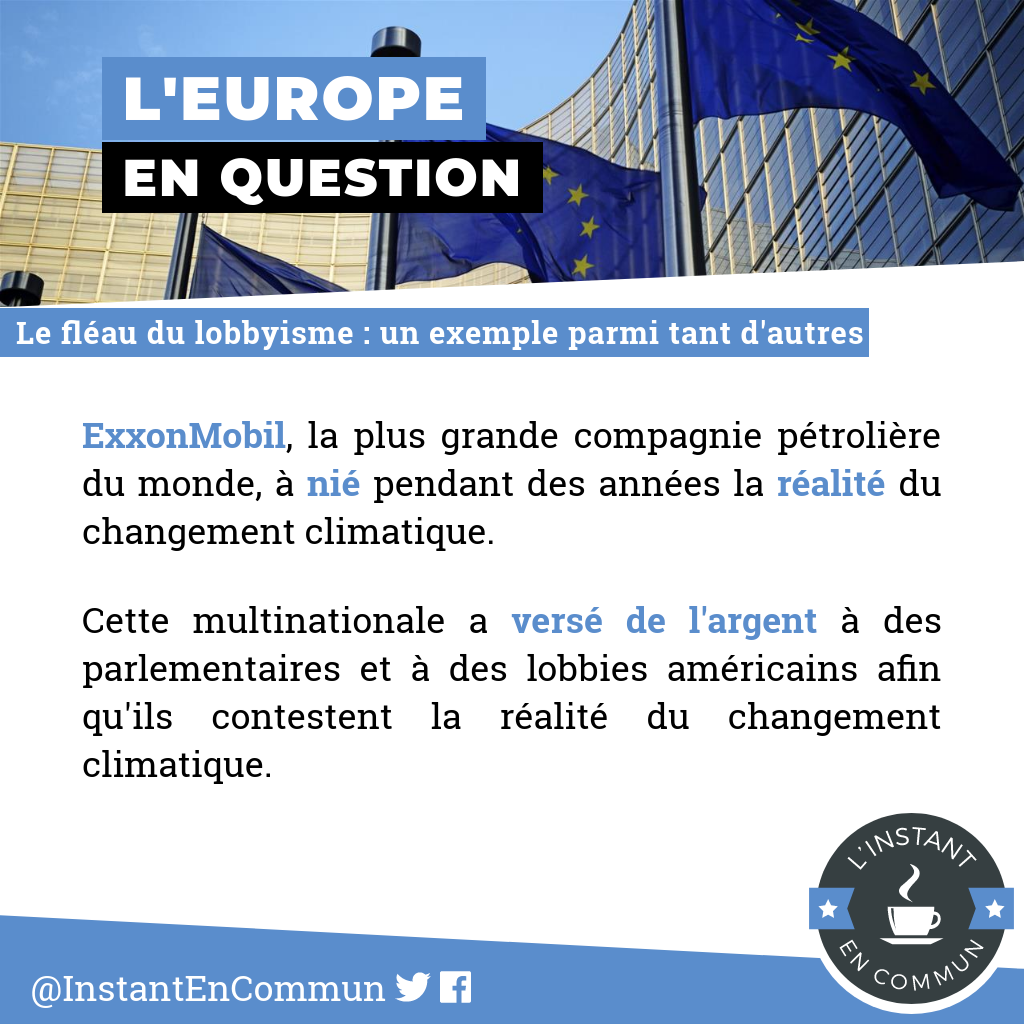
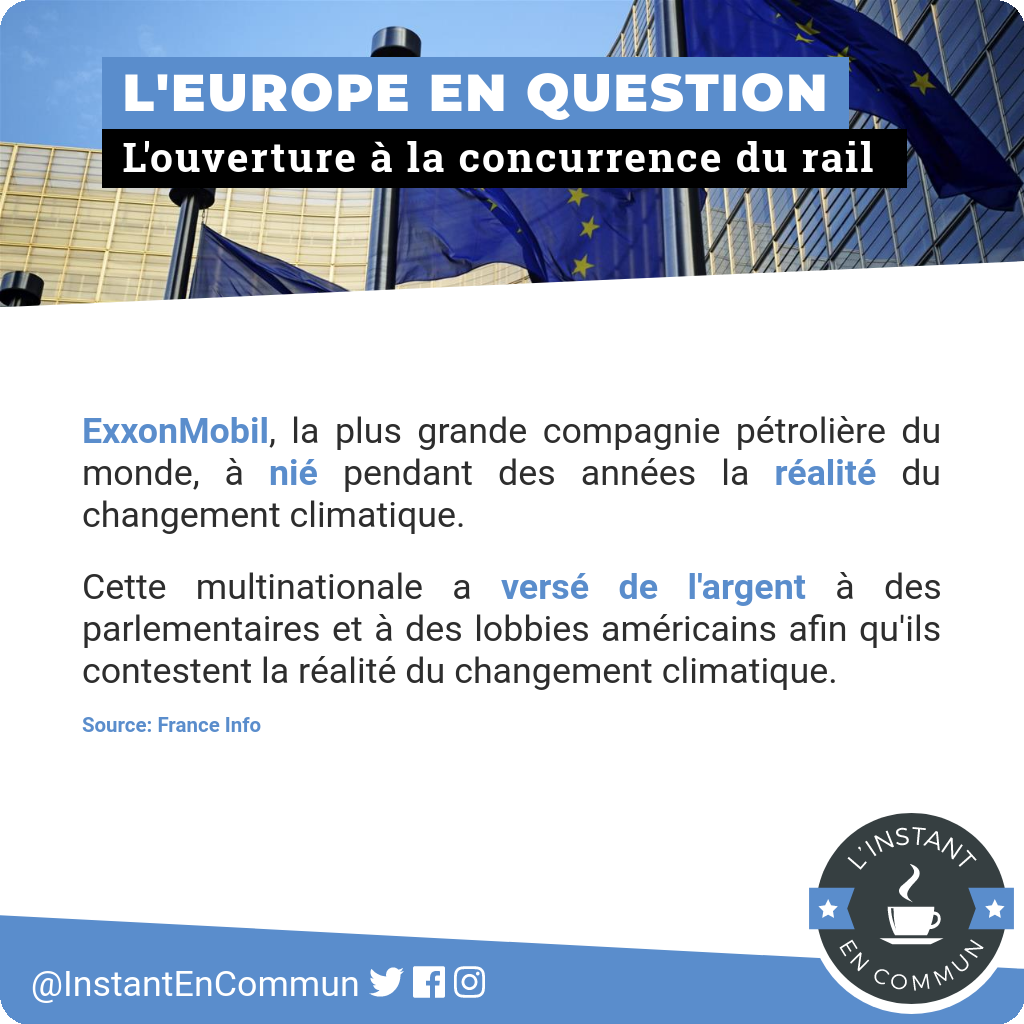
nouveaux visuels LIEC

diff --git a/genvisu/modeles/liec/urgeco/index.html b/genvisu/modeles/liec/urgeco/index.html
@@ -164,13 +164,10 @@
 
         <div class="content">
           <div class="zone" id="bloc1" contenteditable="">
-              <div><span paddingleft="10" paddingright="10" paddingtop="3" paddingbottom="3" letterspacing="2" bgcolor="5" color="2" fontfamily="1" fontweight="9" texttransform="uppercase" fontsize="15">URGENCE</span></div>
-              <div margintop="-1"><span paddingleft="10" paddingright="10" paddingtop="0" paddingbottom="2" letterspacing="2" bgcolor="1" color="2" fontfamily="1" fontweight="9" texttransform="uppercase" fontsize="15" lineheight="9">écologique</span></div>
-            </div>
-            <div class="zone" id="bloc2" contenteditable="" option="Bandeau titre" visible="yes">
-              <div margintop="3"><span paddingleft="8" paddingright="8" paddingtop="4" paddingbottom="4" letterspacing="1" bgcolor="5" color="2" fontfamily="4" fontweight="7" fontsize="10" lineheight="10">Le fléau du lobbyisme : un exemple parmi tant d'autres</span></div>
-            </div>
-            <div class="zone" id="bloc3"  color="3" contenteditable="">
+                                <div margintop="0"><span paddingleft="10" paddingright="10" paddingtop="2" paddingbottom="3" letterspacing="2" bgcolor="5" color="2" fontfamily="1" fontweight="9" texttransform="uppercase" fontsize="14">urgence écologique</span></div>
+                                <div margintop="0" marginbottom="0"><span paddingleft="10" paddingright="10" paddingtop="0" paddingbottom="2" letterspacing="2" bgcolor="1" color="2" fontfamily="2" fontweight="9" texttransform="" fontsize="12" lineheight="8">L'ouverture à la concurrence du rail&nbsp;</span></div>
+                              </div>
+                                          <div class="zone" id="bloc3"  color="3" contenteditable="">
               <div align="justify"><span fontsize="11" fontfamily="4" fontweight="6" color="5">ExxonMobil</span><span fontsize="11" fontfamily="4">, la plus grande compagnie pétrolière du monde, à </span><span fontsize="11" fontfamily="4" fontweight="6" bgcolor="0" color="5">nié</span><span fontsize="11" fontfamily="4"> pendant des années la </span><span fontsize="11" fontfamily="4" fontweight="6" color="5">réalité</span><span fontsize="11" fontfamily="4"> du changement climatique.</span></div><div align="justify" marginbottom="0" margintop="3"><span fontsize="11" fontfamily="4">Cette multinationale a </span><span fontsize="11" fontfamily="4" fontweight="6" color="5">versé de l'argent</span><span fontsize="11" fontfamily="4"> à des parlementaires et à des lobbies américains afin qu'ils contestent la réalité du changement climatique.</span></div><div align="justify" marginbottom="0" margintop="2"><span fontsize="6" fontfamily="4" fontweight="6" color="5">Source: France Info</span></div>
             </div>
 

diff --git a/genvisu/modeles/liec/paxint/index.html b/genvisu/modeles/liec/paxint/index.html
@@ -164,13 +164,9 @@
 
         <div class="content">
           <div class="zone" id="bloc1" contenteditable="">
-              <div><span paddingleft="10" paddingright="10" paddingtop="3" paddingbottom="3" letterspacing="2" bgcolor="5" color="2" fontfamily="1" fontweight="9" texttransform="uppercase" fontsize="15">la paix</span></div>
-              <div margintop="-1"><span paddingleft="10" paddingright="10" paddingtop="0" paddingbottom="2" letterspacing="2" bgcolor="1" color="2" fontfamily="1" fontweight="9" texttransform="uppercase" fontsize="15" lineheight="9">et l'international</span></div>
-            </div>
-            <div class="zone" id="bloc2" contenteditable="" option="Bandeau titre" visible="yes">
-              <div margintop="3"><span paddingleft="8" paddingright="8" paddingtop="4" paddingbottom="4" letterspacing="1" bgcolor="5" color="2" fontfamily="4" fontweight="7" fontsize="10" lineheight="10">Le fléau du lobbyisme : un exemple parmi tant d'autres</span></div>
-            </div>
-            <div class="zone" id="bloc3"  color="3" contenteditable="">
+                                <div margintop="0"><span paddingleft="10" paddingright="10" paddingtop="2" paddingbottom="3" letterspacing="2" bgcolor="5" color="2" fontfamily="1" fontweight="9" texttransform="uppercase" fontsize="14">paix et international</span></div>
+                                <div margintop="0" marginbottom="0"><span paddingleft="10" paddingright="10" paddingtop="0" paddingbottom="2" letterspacing="2" bgcolor="1" color="2" fontfamily="2" fontweight="9" texttransform="" fontsize="12" lineheight="8">L'ouverture à la concurrence du rail&nbsp;</span></div>
+                              </div>            <div class="zone" id="bloc3"  color="3" contenteditable="">
               <div align="justify"><span fontsize="11" fontfamily="4" fontweight="6" color="5">ExxonMobil</span><span fontsize="11" fontfamily="4">, la plus grande compagnie pétrolière du monde, à </span><span fontsize="11" fontfamily="4" fontweight="6" bgcolor="0" color="5">nié</span><span fontsize="11" fontfamily="4"> pendant des années la </span><span fontsize="11" fontfamily="4" fontweight="6" color="5">réalité</span><span fontsize="11" fontfamily="4"> du changement climatique.</span></div><div align="justify" marginbottom="0" margintop="3"><span fontsize="11" fontfamily="4">Cette multinationale a </span><span fontsize="11" fontfamily="4" fontweight="6" color="5">versé de l'argent</span><span fontsize="11" fontfamily="4"> à des parlementaires et à des lobbies américains afin qu'ils contestent la réalité du changement climatique.</span></div><div align="justify" marginbottom="0" margintop="2"><span fontsize="6" fontfamily="4" fontweight="6" color="5">Source: France Info</span></div>
             </div>
 

diff --git a/genvisu/modeles/liec/urgsoc/index.html b/genvisu/modeles/liec/urgsoc/index.html
@@ -164,13 +164,10 @@
 
         <div class="content">
           <div class="zone" id="bloc1" contenteditable="">
-            <div><span paddingleft="10" paddingright="10" paddingtop="3" paddingbottom="3" letterspacing="2" bgcolor="5" color="2" fontfamily="1" fontweight="9" texttransform="uppercase" fontsize="15">URGENCE</span></div>
-            <div margintop="-1"><span paddingleft="10" paddingright="10" paddingtop="0" paddingbottom="2" letterspacing="2" bgcolor="1" color="2" fontfamily="1" fontweight="9" texttransform="uppercase" fontsize="15" lineheight="9">sociale</span></div>
-          </div>
-            <div class="zone" id="bloc2" contenteditable="" option="Bandeau titre" visible="yes">
-              <div margintop="3"><span paddingleft="8" paddingright="8" paddingtop="4" paddingbottom="4" letterspacing="1" bgcolor="5" color="2" fontfamily="4" fontweight="7" fontsize="10" lineheight="10">Le fléau du lobbyisme : un exemple parmi tant d'autres</span></div>
-            </div>
-            <div class="zone" id="bloc3"  color="3" contenteditable="">
+                      <div><span paddingleft="10" paddingright="10" paddingtop="1" paddingbottom="3" letterspacing="2" bgcolor="5" color="2" fontfamily="1" fontweight="9" texttransform="uppercase" fontsize="15">URGENCE SOCIALE</span></div>
+                      <div margintop="-1"><span paddingleft="10" paddingright="10" paddingtop="0" paddingbottom="2" letterspacing="2" bgcolor="1" color="2" fontfamily="2" fontweight="9" texttransform="" fontsize="12" lineheight="9">L'ouverture à la concurrence du rail&nbsp;</span></div>
+                    </div>
+          <div class="zone" id="bloc3"  color="3" contenteditable="">
               <div align="justify"><span fontsize="11" fontfamily="4" fontweight="6" color="5">ExxonMobil</span><span fontsize="11" fontfamily="4">, la plus grande compagnie pétrolière du monde, à </span><span fontsize="11" fontfamily="4" fontweight="6" bgcolor="0" color="5">nié</span><span fontsize="11" fontfamily="4"> pendant des années la </span><span fontsize="11" fontfamily="4" fontweight="6" color="5">réalité</span><span fontsize="11" fontfamily="4"> du changement climatique.</span></div><div align="justify" marginbottom="0" margintop="3"><span fontsize="11" fontfamily="4">Cette multinationale a </span><span fontsize="11" fontfamily="4" fontweight="6" color="5">versé de l'argent</span><span fontsize="11" fontfamily="4"> à des parlementaires et à des lobbies américains afin qu'ils contestent la réalité du changement climatique.</span></div><div align="justify" marginbottom="0" margintop="2"><span fontsize="6" fontfamily="4" fontweight="6" color="5">Source: France Info</span></div>
             </div>
 

diff --git a/genvisu/modeles/liec/eurque/index.html b/genvisu/modeles/liec/eurque/index.html
@@ -165,12 +165,10 @@
 
         <div class="content">
           <div class="zone" id="bloc1" contenteditable="">
-              <div><span paddingleft="10" paddingright="10" paddingtop="3" paddingbottom="3" letterspacing="2" bgcolor="5" color="2" fontfamily="1" fontweight="9" texttransform="uppercase" fontsize="15">l'europe</span></div>
-              <div margintop="-1"><span paddingleft="10" paddingright="10" paddingtop="0" paddingbottom="2" letterspacing="2" bgcolor="1" color="2" fontfamily="1" fontweight="9" texttransform="uppercase" fontsize="15" lineheight="9">en question</span></div>
-            </div>
-          <div class="zone" id="bloc2" contenteditable="" option="Bandeau titre" visible="yes">
-            <div margintop="3"><span paddingleft="8" paddingright="8" paddingtop="4" paddingbottom="4" letterspacing="1" bgcolor="5" color="2" fontfamily="4" fontweight="7" fontsize="10" lineheight="10">Le fléau du lobbyisme : un exemple parmi tant d'autres</span></div>
-          </div>
+                        <div margintop="0"><span paddingleft="10" paddingright="10" paddingtop="2" paddingbottom="3" letterspacing="2" bgcolor="5" color="2" fontfamily="1" fontweight="9" texttransform="uppercase" fontsize="14">l'europe en question</span></div>
+                        <div margintop="0" marginbottom="0"><span paddingleft="10" paddingright="10" paddingtop="0" paddingbottom="2" letterspacing="2" bgcolor="1" color="2" fontfamily="2" fontweight="9" texttransform="" fontsize="12" lineheight="8">L'ouverture à la concurrence du rail&nbsp;</span></div>
+                      </div>
+
           <div class="zone" id="bloc3" contenteditable="" color="3">
             <div align="justify"><span fontsize="11" fontfamily="4" fontweight="6" color="5">ExxonMobil</span><span fontsize="11" fontfamily="4">, la plus grande compagnie pétrolière du monde, à </span><span fontsize="11" fontfamily="4" fontweight="6" bgcolor="0" color="5">nié</span><span fontsize="11" fontfamily="4"> pendant des années la </span><span fontsize="11" fontfamily="4" fontweight="6" color="5">réalité</span><span fontsize="11" fontfamily="4"> du changement climatique.</span></div><div align="justify" marginbottom="0" margintop="3"><span fontsize="11" fontfamily="4">Cette multinationale a </span><span fontsize="11" fontfamily="4" fontweight="6" color="5">versé de l'argent</span><span fontsize="11" fontfamily="4"> à des parlementaires et à des lobbies américains afin qu'ils contestent la réalité du changement climatique.</span></div><div align="justify" marginbottom="0" margintop="2"><span fontsize="6" fontfamily="4" fontweight="6" color="5">Source: France Info</span></div>
           </div>

diff --git a/genvisu/modeles/liec/urgdem/index.html b/genvisu/modeles/liec/urgdem/index.html
@@ -164,12 +164,9 @@
 
         <div class="content">
           <div class="zone" id="bloc1" contenteditable="">
-            <div><span paddingleft="10" paddingright="10" paddingtop="3" paddingbottom="3" letterspacing="2" bgcolor="5" color="2" fontfamily="1" fontweight="9" texttransform="uppercase" fontsize="15">URGENCE</span></div>
-            <div margintop="-1"><span paddingleft="10" paddingright="10" paddingtop="0" paddingbottom="2" letterspacing="2" bgcolor="1" color="2" fontfamily="1" fontweight="9" texttransform="uppercase" fontsize="15" lineheight="9">démocratique</span></div>
-          </div>
-            <div class="zone" id="bloc2" contenteditable="" option="Bandeau titre" visible="yes">
-              <div margintop="3"><span paddingleft="8" paddingright="8" paddingtop="4" paddingbottom="4" letterspacing="1" bgcolor="5" color="2" fontfamily="4" fontweight="7" fontsize="10" lineheight="10">Le fléau du lobbyisme : un exemple parmi tant d'autres</span></div>
-            </div>
+                      <div margintop="0"><span paddingleft="10" paddingright="10" paddingtop="2" paddingbottom="3" letterspacing="2" bgcolor="5" color="2" fontfamily="1" fontweight="9" texttransform="uppercase" fontsize="14">urgence démocratique</span></div>
+                      <div margintop="0" marginbottom="0"><span paddingleft="10" paddingright="10" paddingtop="0" paddingbottom="2" letterspacing="2" bgcolor="1" color="2" fontfamily="2" fontweight="9" texttransform="" fontsize="12" lineheight="8">L'ouverture à la concurrence du rail&nbsp;</span></div>
+                    </div>
             <div class="zone" id="bloc3"  color="3" contenteditable="">
               <div align="justify"><span fontsize="11" fontfamily="4" fontweight="6" color="5">ExxonMobil</span><span fontsize="11" fontfamily="4">, la plus grande compagnie pétrolière du monde, à </span><span fontsize="11" fontfamily="4" fontweight="6" bgcolor="0" color="5">nié</span><span fontsize="11" fontfamily="4"> pendant des années la </span><span fontsize="11" fontfamily="4" fontweight="6" color="5">réalité</span><span fontsize="11" fontfamily="4"> du changement climatique.</span></div><div align="justify" marginbottom="0" margintop="3"><span fontsize="11" fontfamily="4">Cette multinationale a </span><span fontsize="11" fontfamily="4" fontweight="6" color="5">versé de l'argent</span><span fontsize="11" fontfamily="4"> à des parlementaires et à des lobbies américains afin qu'ils contestent la réalité du changement climatique.</span></div><div align="justify" marginbottom="0" margintop="2"><span fontsize="6" fontfamily="4" fontweight="6" color="5">Source: France Info</span></div>
             </div>

diff --git a/genvisu/modeles/liec/prohum/index.html b/genvisu/modeles/liec/prohum/index.html
@@ -164,12 +164,9 @@
 
         <div class="content">
           <div class="zone" id="bloc1" contenteditable="">
-              <div><span paddingleft="10" paddingright="10" paddingtop="3" paddingbottom="3" letterspacing="2" bgcolor="5" color="2" fontfamily="1" fontweight="9" texttransform="uppercase" fontsize="15">progrès</span></div>
-              <div margintop="-1"><span paddingleft="10" paddingright="10" paddingtop="0" paddingbottom="2" letterspacing="2" bgcolor="1" color="2" fontfamily="1" fontweight="9" texttransform="uppercase" fontsize="15" lineheight="9">humain</span></div>
-            </div>
-          <div class="zone" id="bloc2" contenteditable="" option="Bandeau titre" visible="yes">
-            <div margintop="3"><span paddingleft="8" paddingright="8" paddingtop="4" paddingbottom="4" letterspacing="1" bgcolor="5" color="2" fontfamily="4" fontweight="7" fontsize="10" lineheight="10">Le fléau du lobbyisme : un exemple parmi tant d'autres</span></div>
-          </div>
+                        <div margintop="0"><span paddingleft="10" paddingright="10" paddingtop="2" paddingbottom="3" letterspacing="2" bgcolor="5" color="2" fontfamily="1" fontweight="9" texttransform="uppercase" fontsize="14">progrès humain</span></div>
+                        <div margintop="0" marginbottom="0"><span paddingleft="10" paddingright="10" paddingtop="0" paddingbottom="2" letterspacing="2" bgcolor="1" color="2" fontfamily="2" fontweight="9" texttransform="" fontsize="12" lineheight="8">L'ouverture à la concurrence du rail&nbsp;</span></div>
+                      </div>
           <div class="zone" id="bloc3"  color="3" contenteditable="">
             <div align="justify"><span fontsize="11" fontfamily="4" fontweight="6" color="5">ExxonMobil</span><span fontsize="11" fontfamily="4">, la plus grande compagnie pétrolière du monde, à </span><span fontsize="11" fontfamily="4" fontweight="6" bgcolor="0" color="5">nié</span><span fontsize="11" fontfamily="4"> pendant des années la </span><span fontsize="11" fontfamily="4" fontweight="6" color="5">réalité</span><span fontsize="11" fontfamily="4"> du changement climatique.</span></div><div align="justify" marginbottom="0" margintop="3"><span fontsize="11" fontfamily="4">Cette multinationale a </span><span fontsize="11" fontfamily="4" fontweight="6" color="5">versé de l'argent</span><span fontsize="11" fontfamily="4"> à des parlementaires et à des lobbies américains afin qu'ils contestent la réalité du changement climatique.</span></div><div align="justify" marginbottom="0" margintop="2"><span fontsize="6" fontfamily="4" fontweight="6" color="5">Source: France Info</span></div>
           </div>

diff --git a/genvisu/static/js/gv2.js b/genvisu/static/js/gv2.js
@@ -555,7 +555,7 @@ function iframeLoaded() {
     var fdocument = fwindow.document;
     var fzone = e.target;
     var charcode = e.charCode;
-
+    
     // Historique
     var changed = false;
     var his_item = getHistoryItem(fzone);
